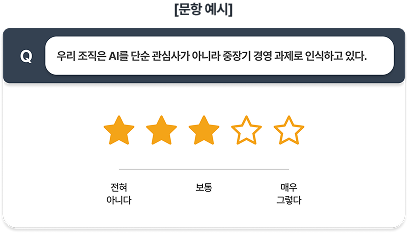
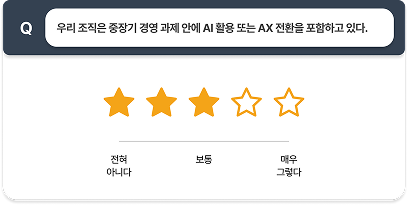
feat(assessment): 임원진 검사 > 문항 소개 이미지 변경

diff --git a/app/assessment/components/steps/ComponentIntroStep.tsx b/app/assessment/components/steps/ComponentIntroStep.tsx
@@ -105,7 +105,7 @@ const INTRO_LABEL: Record<
       warning: [
         '가장 높은 수준을 선택하기보다, 조직의 방향과 현실적인 실행 여건을 함께 고려해 응답해 주세요.',
       ],
-      imageSrc: '/images/assessment/img_intro_executive_01.png',
+      imageSrc: '/images/assessment/img_intro_executive_02.png',
     },
   },
 };